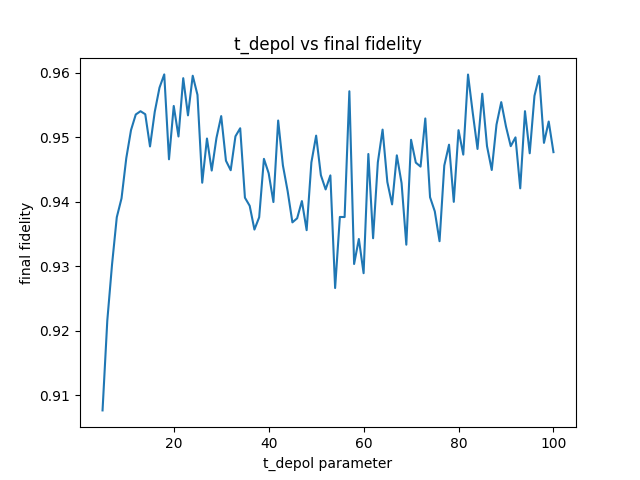
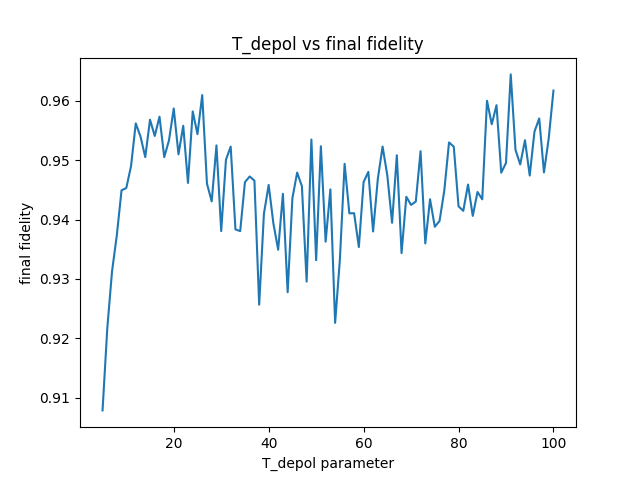
graph

diff --git a/qc.py b/qc.py
@@ -64,7 +64,7 @@ class Entanglement:
         self.rho = self.fidelity * self.phi_plus_dm + (1 - self.fidelity) * ((self.identity - self.phi_plus_dm) / 3)
 
 def edging(F, final_F):
-    if F < 0.55:
+    if F < 0.5:
         raise NameError("You dumb ass, use a higher fidelity")
     iter = 0
     while True:
@@ -289,20 +289,20 @@ def main():
             cost_total *= c
         cost_list.append(cost_total)
     plt.plot(t_depol_list, t_list)
-    plt.title("t_depol vs generation time")
-    plt.xlabel("t_depol parameter")
+    plt.title("T_depol vs generation time")
+    plt.xlabel("T_depol parameter")
     plt.ylabel("generation time/t")
     plt.show()
     
     plt.plot(t_depol_list, fid_list)
-    plt.title("t_depol vs final fidelity")
-    plt.xlabel("t_depol parameter")
+    plt.title("T_depol vs final fidelity")
+    plt.xlabel("T_depol parameter")
     plt.ylabel("final fidelity")
     plt.show()
     
     plt.plot(t_depol_list, cost_list)
-    plt.title("t_depol vs final cost")
-    plt.xlabel("t_depol parameter")
+    plt.title("T_depol vs final cost")
+    plt.xlabel("T_depol parameter")
     plt.ylabel("log # Werner State Sacrificed")
     plt.yscale('log')
     plt.show()
